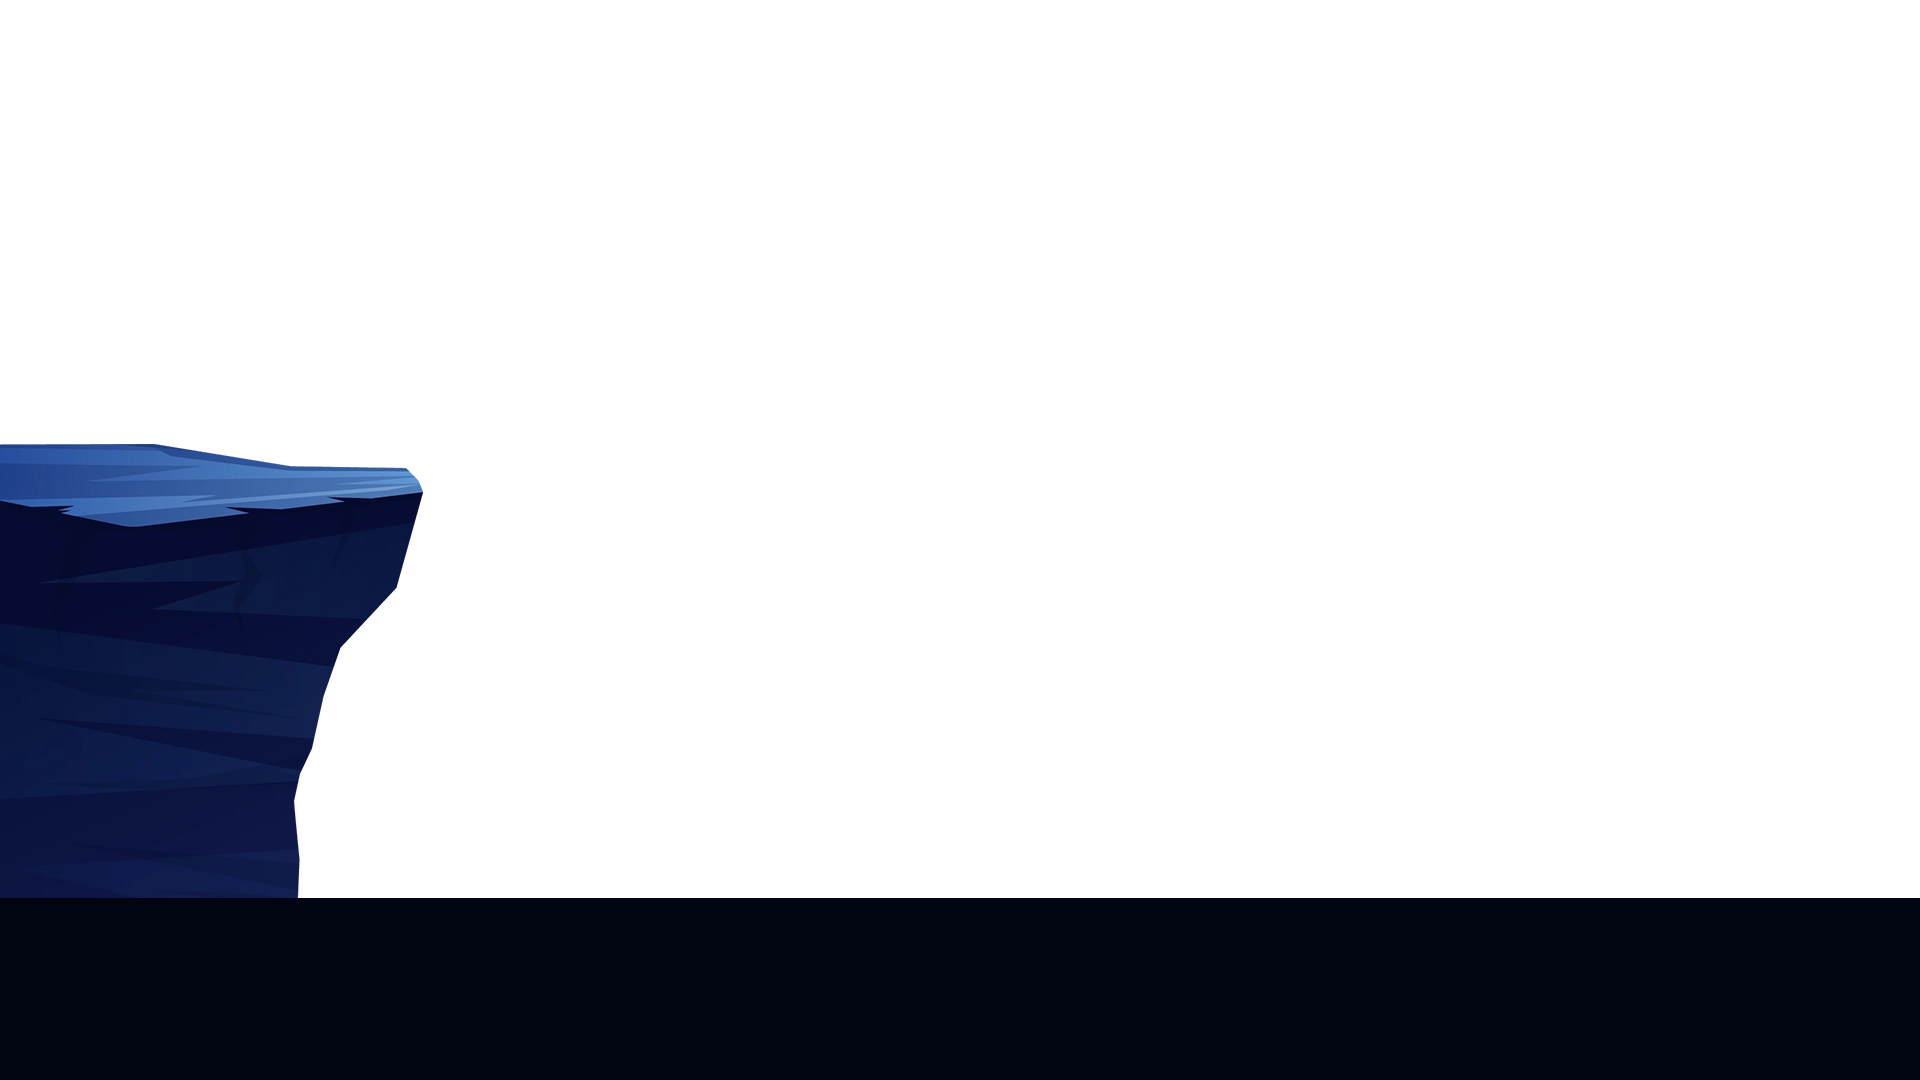
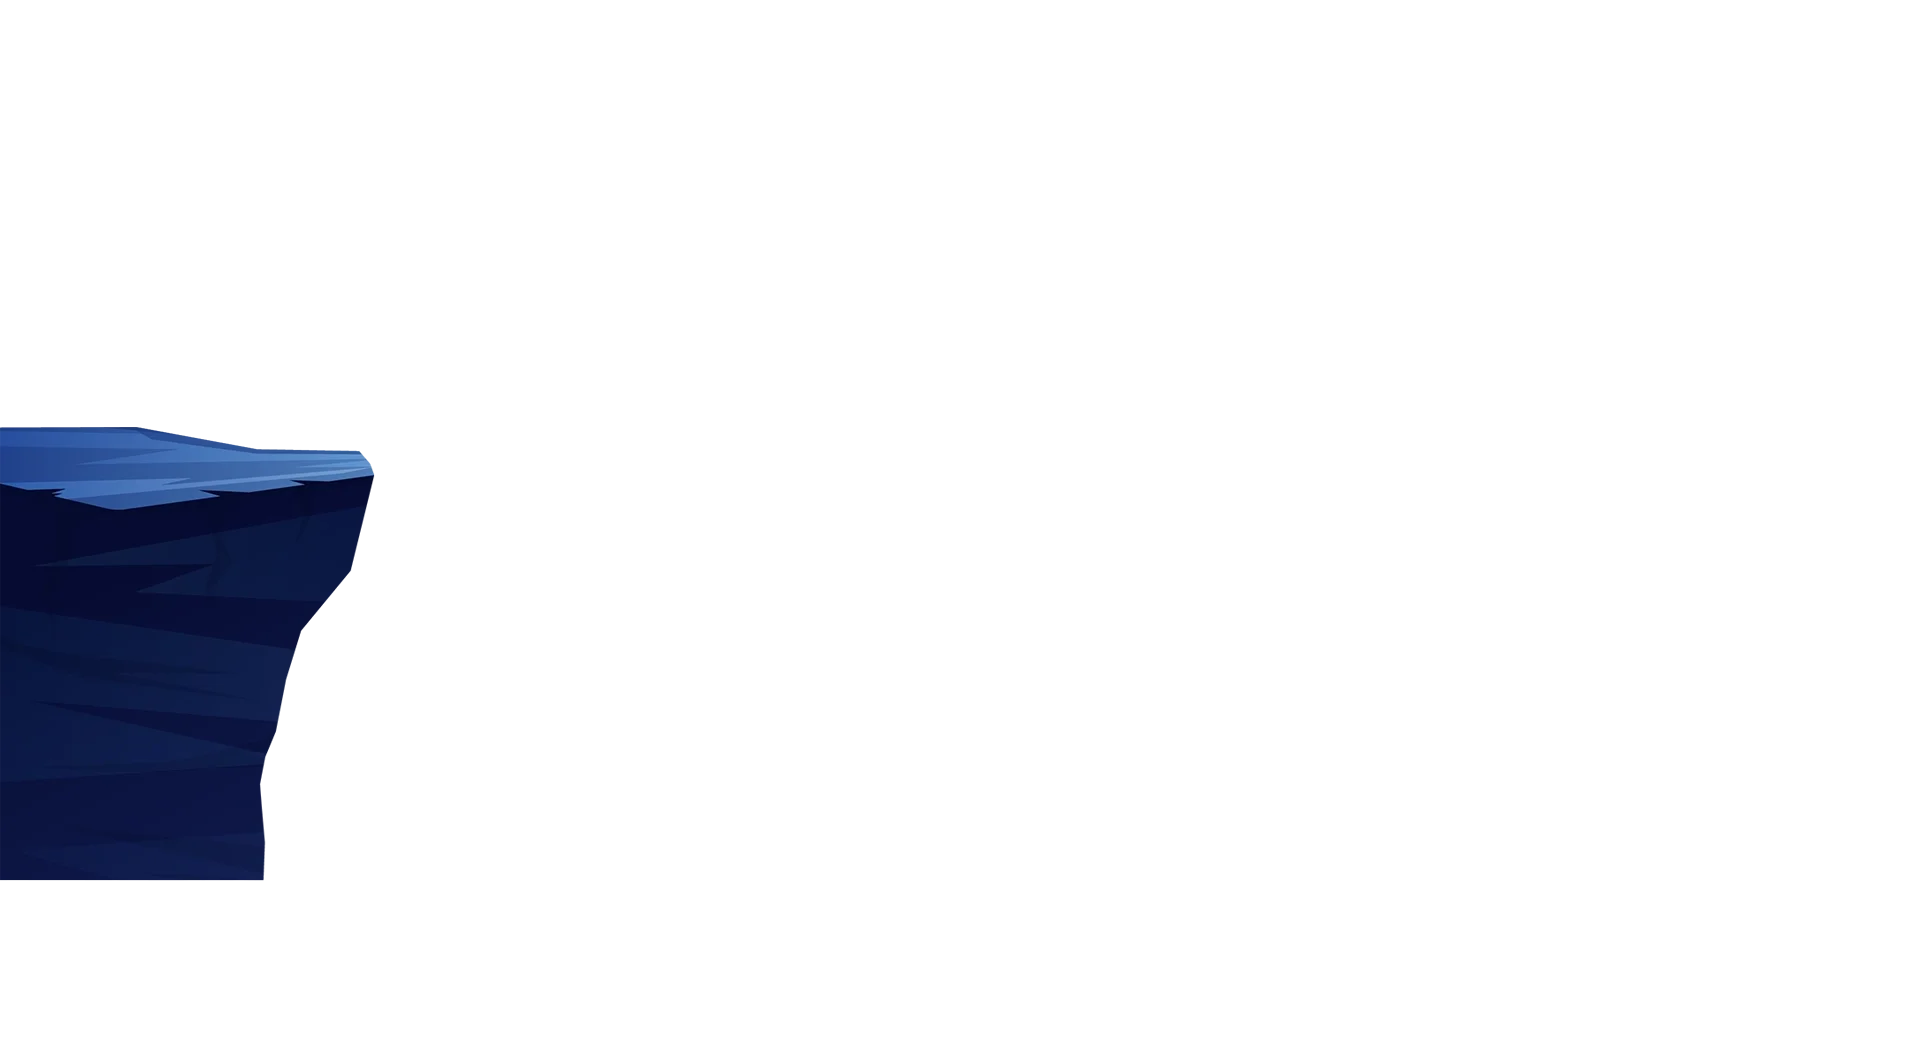
[UPDATE] HeroParallax V2

Changed region(s): [[0.0, 0.4008, 1.0, 1.0]]

diff --git a/app/components/sections/HeroSection.vue b/app/components/sections/HeroSection.vue
@@ -2,65 +2,45 @@
 const heroRef = ref<HTMLElement | null>(null)
 const { applyParallax } = useParallax()
 
-onMounted(() => {
-  applyParallax(heroRef)
-})
+applyParallax(heroRef)
 </script>
 <template>
   <section class="hero" ref="heroRef">
 
-    <!-- Fond CSS (gradient + halo aurora) -->
-    <div class="hero__bg z-0" />
-
     <!-- Couches parallax -->
-    <div class="hero__layer z-[1]" data-depth="0.01">
-      <img src="/parallax/aurora_stars.webp" alt="" aria-hidden="true" class="hero__img">
-    </div>
+    <div class="hero__layer hero__layer--sky" data-depth="0.01"></div>
 
-    <div class="hero__layer z-[2]" data-depth="0.06">
-      <img src="/parallax/moon.webp" alt="" aria-hidden="true" class="hero__img hero__img--moon">
-    </div>
+    <div class="hero__layer hero__layer--moon " data-depth="0.06"></div>
 
     <!-- Hero title-->
-    <div class="hero__layer hero__content z-[3]">
+    <div class="hero__layer hero__content" data-depth="0.08">
       <p class="hero__intro">Bonjour, je suis</p>
       <h1 class="hero__title">Jonathan Loré</h1>
       <span class="hero__badge">Développeur web Fullstack</span>
       <p class="hero__tagline">De la vision à la production, je construis des expériences qui ont du sens.</p>
     </div>
 
-    <div class="hero__layer z-[4]" data-depth="0.10" >
-      <img src="/parallax/mountains-1.webp" alt="" aria-hidden="true" class="hero__img hero__img--bottom">
-    </div>
-    <div class="hero__layer z-[5]" data-depth="0.12" >
-      <img src="/parallax/mountains-1-trees.webp" alt="" aria-hidden="true" class="hero__img hero__img--bottom">
-    </div>
+    <div class="hero__layer hero__layer--mountain-1 hero__layer--bottom" data-depth="0.10"></div>
 
-    <div class="hero__layer z-[6]" data-depth="0.14" >
-      <img src="/parallax/lake.webp" alt="" aria-hidden="true" class="hero__img hero__img--lake">
-    </div>
-    <div class="hero__layer z-[7]" data-depth="0.25" >
-      <img src="/parallax/trees-1.webp" alt="" aria-hidden="true" class="hero__img hero__img--bottom">
-    </div>
-    <div class="hero__layer z-[8]" data-depth="0.32" >
-      <img src="/parallax/cliff.webp" alt="" aria-hidden="true" class="hero__img hero__img--bottom">
-    </div>
-    <div class="hero__layer z-[9]" data-depth="0.36" >
-      <img src="/parallax/mountains-2.webp" alt="" aria-hidden="true" class="hero__img hero__img--bottom">
-    </div>
-    <div class="hero__layer z-[10]" data-depth="0.44" >
-      <img src="/parallax/trees-2.webp" alt="" aria-hidden="true" class="hero__img hero__img--bottom">
-    </div>
-    <div class="hero__layer z-[11]" data-depth="0.49">
-      <img src="/parallax/mountains-3.webp" alt="" aria-hidden="true" class="hero__img hero__img--bottom">
-    </div>
+    <div class="hero__layer hero__layer--mountain-1-trees hero__layer--bottom" data-depth="0.12"></div>
+
+    <div class="hero__layer hero__layer--lake hero__layer--bottom " data-depth="0.14"></div>
+
+    <div class="hero__layer hero__layer--trees-1 hero__layer--bottom " data-depth="0.25"></div>
+
+    <div class="hero__layer hero__layer--cliff hero__layer--bottom " data-depth="0.32"></div>
+
+    <div class="hero__layer hero__layer--mountain-2 hero__layer--bottom " data-depth="0.36"></div>
+
+    <div class="hero__layer hero__layer--trees-2 hero__layer--bottom ]" data-depth="0.44"></div>
+
+    <div class="hero__layer hero__layer--mountain-3 hero__layer--bottom ]" data-depth="0.49"></div>
+
     <!-- Brume seule (dégradés radiaux, mix-blend-mode) -->
-    <div class="hero__layer z-[12]" data-depth="0.52">
-      <img src="/parallax/trees-3-brume.webp" alt="" aria-hidden="true" class="hero__img hero__img--bottom hero__img--exclusion">
-    </div>
+    <div class="hero__layer hero__layer--brume hero__layer--bottom hero__layer--exclusion" data-depth="1"></div>
+
     <!-- Arbres seuls -->
-    <div class="hero__layer z-[13]" data-depth="0.52">
-      <img src="/parallax/trees-3.webp" alt="" aria-hidden="true" class="hero__img hero__img--bottom--trees">
-    </div>
+    <div class="hero__layer hero__layer--trees-3 hero__layer--bottom" data-depth="1"></div>
+
   </section>
 </template>

diff --git a/app/assets/scss/components/_hero.scss b/app/assets/scss/components/_hero.scss
@@ -1,76 +1,93 @@
 @use '../mixins' as *;
 
 .hero {
+  display:block;
   position: relative;
   width: 100%;
   height: 100vh;
-  clip-path: inset(0);
   background-color: #010511; // couleur de fallback
 }
-
-// Toutes les couches
 .hero__layer {
-  position: absolute;
+  position: fixed;
   inset: 0;
   width: 100%;
-  height: 100%;
-}
+  height: 100vh;
 
-// Image standard — couvre toute la couche
-.hero__img {
-  position: absolute;
-  top: 0;
-  left: 0;
-  width: 100%;
-  height: 100%;
-  object-fit: cover;
+  // Styles background communs
+  background-position: bottom center;
+  background-repeat: no-repeat;
+  background-size: auto 1038px;
 
-  // Pour aurora_stars et moon qui ont un fond noir
-  &--screen {
-    mix-blend-mode: screen;
-  }
-
-  // Éléments ancrés en bas (montagnes, arbres, lac)
+  // Couches ancrées en bas (montagnes, arbres)
   &--bottom {
-    top: auto;
-    bottom: 0;
-    height: auto; // hauteur naturelle de l'image
-    object-fit: initial;
-    &--trees{
-      top: 10%;
-    }
+    background-size: 100% auto;       // hauteur naturelle
+    background-position: bottom center;
   }
-  &--center {
-    top: 60%;
-    bottom: 0;
-    height: auto; // hauteur naturelle de l'image
-    object-fit: initial;
+
+  // Couche plein écran (ciel)
+  &--sky {
+    z-index: 1;
+    background-image: url('/parallax/aurora_stars.webp');
+    background-size: cover;
+    background-position: center center;
+  }
+
+  // Lune — petite, positionnée à droite
+  &--moon {
+    z-index: 2;
+    background-image: url('/parallax/moon.webp');
+    background-size: 140px auto;
+    background-position: 85% 35%;
+    mix-blend-mode: screen;
+    filter: drop-shadow(0 0 40px rgba(200, 220, 255, 0.4));
+  }
+
+  &--mountain-1 {
+    z-index: 4;
+    background-image: url('/parallax/mountains-1.webp');
+  }
+  &--mountain-1-trees {
+    z-index: 5;
+    background-image: url('/parallax/mountains-1-trees.webp');
   }
   &--lake {
-    top:-1%;
+    z-index: 6;
+    background-image: url('/parallax/lake.webp');
   }
-  // Lune positionnée à droite
-  &--moon {
-    top: 30%;
-    right: 15%;
-    left: auto;
-    width: 140px;
-    height: auto;
-    object-fit: initial;
-    mix-blend-mode: screen;
-    // Halo CSS
-    filter: drop-shadow(0 0 40px rgba(200, 220, 255, 0.4))
-    drop-shadow(0 0 80px rgba(150, 190, 255, 0.2));
+  &--trees-1{
+    z-index: 7;
+    background-image: url('/parallax/trees-1.webp');
   }
-  &--exclusion{
+  &--cliff {
+    z-index: 8;
+    background-image: url('/parallax/cliff.webp');
+  }
+  &--mountain-2 {
+    z-index: 9;
+    background-image: url('/parallax/mountains-2.webp');
+  }
+  &--trees-2 {
+    z-index: 10;
+    background-image: url('/parallax/trees-2.webp'); }
+  &--mountain-3 {
+    z-index: 11;
+    background-image: url('/parallax/mountains-3.webp');
+  }
+  &--brume {
+    z-index: 12;
+    background-image: url('/parallax/trees-3-brume.webp');
+  }
+  &--trees-3 {
+    z-index: 13;
+    background-image: url('/parallax/trees-3.webp');
+  }
+  &--exclusion {
     mix-blend-mode: exclusion;
-    bottom: -3%;
   }
 }
 
 // Contenu texte
 .hero__content {
-  position: absolute;
   display: flex;
   flex-direction: column;
   align-items: center;
@@ -78,6 +95,7 @@
   text-align: center;
   gap: 1rem;
   padding-bottom: 26vh;
+  z-index: 3;
 }
 
 .hero__intro {

diff --git a/app/composables/useParallax.ts b/app/composables/useParallax.ts
@@ -1,37 +1,41 @@
 export function useParallax() {
-  const { y } = useWindowScroll()
   const { width } = useWindowSize()
 
   function applyParallax(container: Ref<HTMLElement | null>) {
-    onMounted(() => {
+    let heroHeight = 0 // calculé une fois au montage
+
+    const handleScroll = () => {
       if (!container.value) return
+
+      const scrollY = window.pageYOffset
       const layers = container.value.querySelectorAll<HTMLElement>('[data-depth]')
-      layers.forEach((layer) => {
-        layer.style.willChange = 'transform'
-      })
-    })
 
-    watchEffect(() => {
-      if (!container.value) return
-
-      // Pas de parallax sous 1024px
-      if (width.value < 1024) {
-        const layers = container.value.querySelectorAll<HTMLElement>('[data-depth]')
+      if (scrollY >= heroHeight) {
         layers.forEach((layer) => {
-          layer.style.transform = 'none'
+          layer.style.visibility = 'hidden'
         })
         return
       }
 
-      const maxScroll = window.innerHeight * 0.6
-      const scrollClamped = Math.min(y.value, maxScroll)
-      const layers = container.value.querySelectorAll<HTMLElement>('[data-depth]')
-
       layers.forEach((layer) => {
+        layer.style.visibility = 'visible'
         const depth = parseFloat(layer.dataset.depth ?? '0')
-        const translateY = -scrollClamped * depth
-        layer.style.transform = `translate3d(0, ${translateY}px, 0)`
+        const yPos = -(scrollY * depth)
+        layer.style.transform = `translate3d(0px, ${yPos}px, 0px)`
       })
+    }
+
+    onMounted(() => {
+      if (width.value < 1024) return
+
+      // Calculé une seule fois — insensible aux redimensionnements de la console
+      heroHeight = (container.value?.offsetHeight ?? window.innerHeight) * 1.2
+
+      window.addEventListener('scroll', handleScroll, { passive: true })
+    })
+
+    onUnmounted(() => {
+      window.removeEventListener('scroll', handleScroll)
     })
   }
 

diff --git a/app/pages/index.vue b/app/pages/index.vue
@@ -5,6 +5,8 @@ import ProjectsSection from "~/components/sections/ProjectsSection.vue";
 </script>
 <template>
   <HeroSection/>
-  <AboutSection/>
-  <ProjectsSection/>
+  <div class="relative min-h-screen bg-bg" style="z-index: 20">
+    <AboutSection/>
+    <ProjectsSection/>
+  </div>
 </template>

diff --git a/app/components/sections/AboutSection.vue b/app/components/sections/AboutSection.vue
@@ -90,7 +90,7 @@ onUnmounted(() => {
 </script>
 
 <template>
-  <section id="about" class="about">
+  <section id="about" class="about relative bg-bg" style="z-index: 20">
     <!-- En-tête de section -->
     <div class="section-header">
       <h2 class="section-title">À propos</h2>

diff --git a/app/assets/scss/_base.scss b/app/assets/scss/_base.scss
@@ -6,7 +6,9 @@ html {
   font-family: var(--font-body), serif;
   scroll-behavior: smooth;
 }
-
+body{
+  position: relative;
+}
 h1, h2, h3, h4 {
   font-family: var(--font-title), serif;
 }
